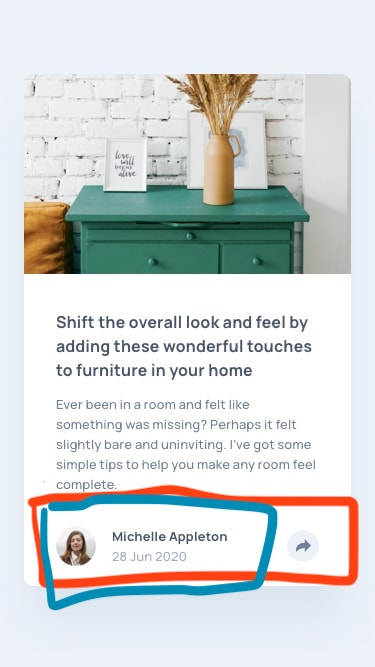
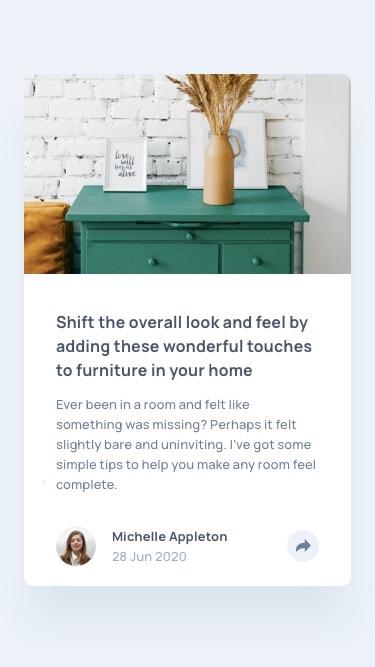
Added font and css links

Changed region(s): [[0.0587, 0.7196, 0.968, 0.9295]]

diff --git a/index.html b/index.html
@@ -4,6 +4,9 @@
   <meta charset="UTF-8">
   <meta name="viewport" content="width=device-width, initial-scale=1.0"> <!-- displays site properly based on user's device -->
   <link rel="icon" type="image/png" sizes="32x32" href="./images/favicon-32x32.png">
+  <link rel="stylesheet" href="./css/main.css">
+  <link rel="preconnect" href="https://fonts.gstatic.com">
+  <link href="https://fonts.googleapis.com/css2?family=Manrope:wght@500;700&display=swap" rel="stylesheet">
   <title>Frontend Mentor | Article preview component</title>
   </style>
 </head>
